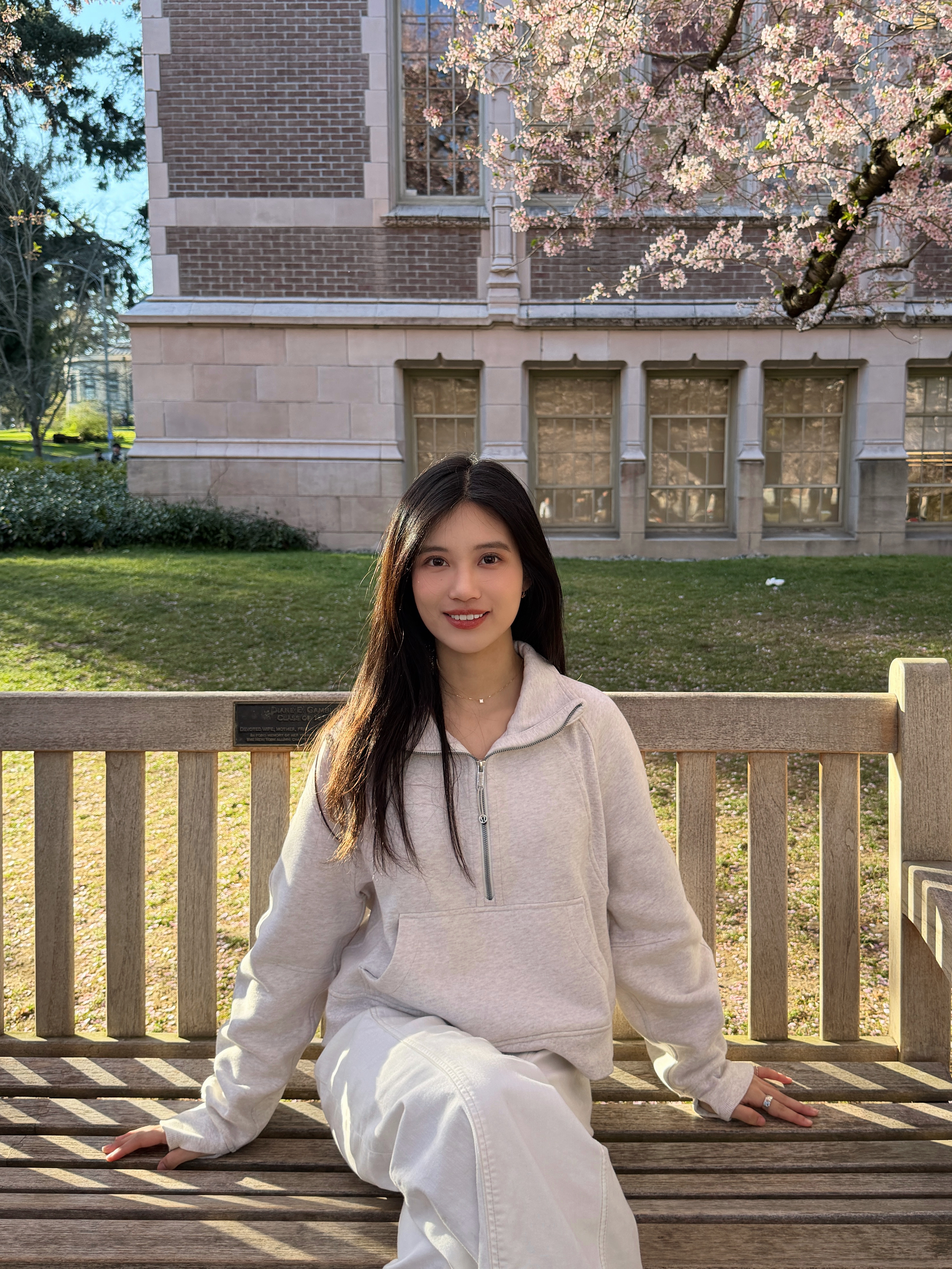
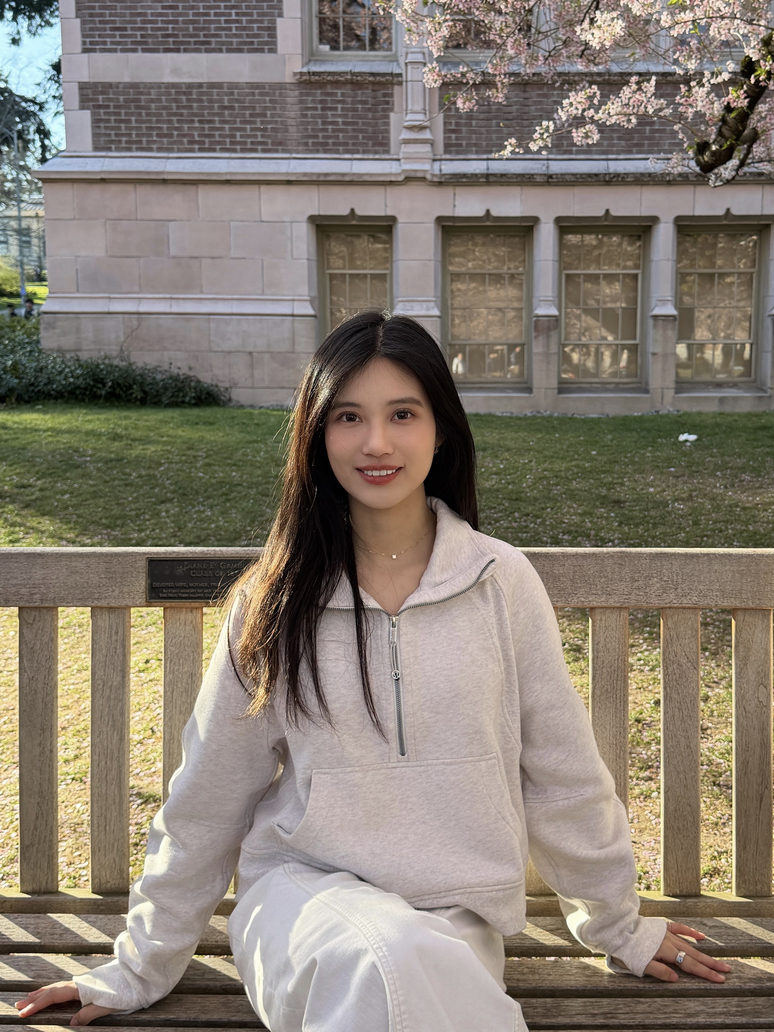
Update contact email to HKU mailto link in sidebar

diff --git a/_includes/author-profile.html b/_includes/author-profile.html
@@ -11,7 +11,6 @@
   <div class="author__content">
     <h3 class="author__name">{{ author.name }}</h3>
     {% if author.bio %}<p class="author__bio">{{ author.bio }}</p>{% endif %}
-    {% if author.email %}<p class="author__bio">{{ author.email }}</p>{% endif %}
   </div>
 
   <div class="author__urls-wrapper">
@@ -20,6 +19,9 @@
 
       {% if author.location %}
         <li><i class="fa fa-fw fa-map-marker" aria-hidden="true"></i> {{ author.location }}</li>
+      {% endif %}
+      {% if author.email %}
+        <li><a href="mailto:{{ author.email }}"><i class="fas fa-fw fa-envelope" aria-hidden="true"></i> Email</a></li>
       {% endif %}
       {% if author.employer %}
         <li><i class="fa fa-fw fa-map-marker" aria-hidden="true"></i> {{ author.employer }}</li>
@@ -116,6 +118,9 @@
 {% endif %}
     </ul>
       <div class="author__urls_sm">
+      {% if author.email %}
+        <a href="mailto:{{ author.email }}"><i class="fas fa-fw fa-envelope" aria-hidden="true"></i></a>
+      {% endif %}
       {% if author.uri %}
         <a href="{{ author.uri }}"><i class="fas fa-fw fa-link" aria-hidden="true"></i></a>
       {% endif %}
